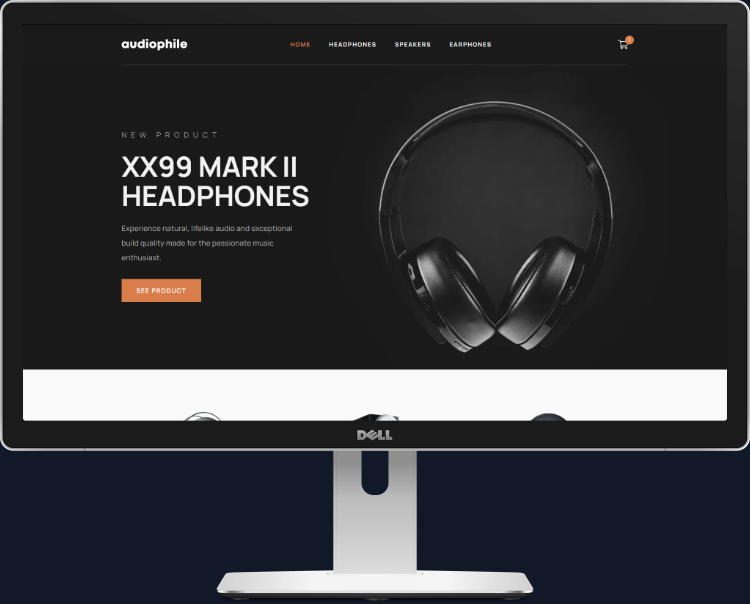
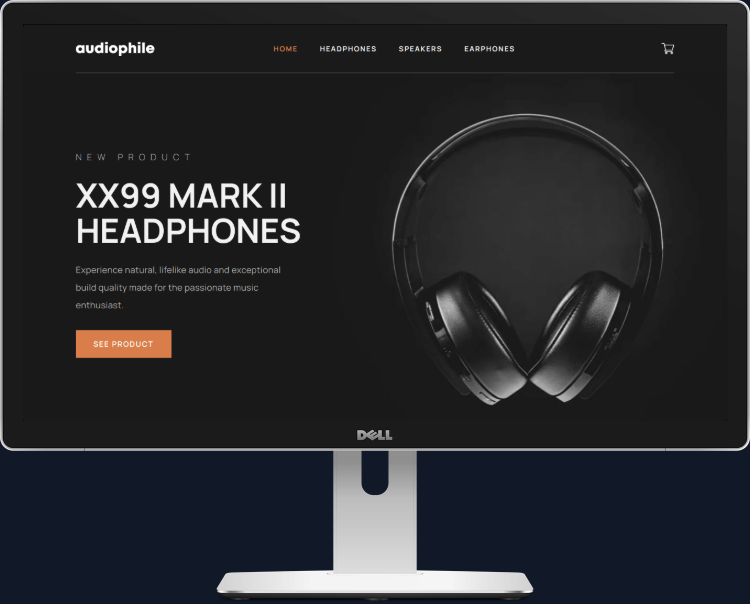
added emailJs for the contact section and modified the form to fit to the emailjs rule. Also replaced some of the images and reduced the font size on desktop screen

diff --git a/src/components/Contact.js b/src/components/Contact.js
@@ -1,35 +1,72 @@
-import React, { useState } from 'react'
+import React, { useRef, useState, useEffect } from 'react'
+import emailjs from '@emailjs/browser'
+
 const Contact = () => {
+	const formRef = useRef()
+	const [done, setDone] = useState(false)
+
+	useEffect(() => {
+		setTimeout(function () {
+			setDone(false)
+		}, 3000)
+	}, [])
+
 	const [name, setName] = useState('')
 	const [email, setEmail] = useState('')
+	const [subject, setSubject] = useState('')
 	const [message, setMessage] = useState('')
 
-	function encode(data) {
-		return Object.keys(data)
-			.map(
-				(key) => encodeURIComponent(key) + '=' + encodeURIComponent(data[key])
-			)
-			.join('&')
-	}
-
-	function reset(){
-		setName('')
-		setEmail('')
-		setMessage('')
-	}
-
-	function handleSubmit(e) {
+	const sendEmail = (e) => {
 		e.preventDefault()
-		fetch('https://formsubmit.co/adedeji006@gmail.com', {
-			method: 'POST',
-			headers: { 'Content-Type': 'application/x-www-form-urlencoded' },
-			body: encode({ 'form-name': 'contact', name, email, message }),
-		})
-			.then(() => alert('Message sent!'))
-			.catch((error) => alert(error))
-			
-			reset()
+
+		emailjs
+			.sendForm(
+				'service_opnz8zb',
+				'template_hsoqk7q',
+				formRef.current,
+				'user_VtrmjHkwBS6z6fCEIrm4K'
+			)
+			.then(
+				(result) => {
+					console.log(result.text)
+					setDone(true)
+					setName('')
+					setEmail('')
+					setSubject('')
+					setMessage('')
+				},
+				(error) => {
+					console.log(error.text)
+				}
+			)
 	}
+
+	// function encode(data) {
+	// 	return Object.keys(data)
+	// 		.map(
+	// 			(key) => encodeURIComponent(key) + '=' + encodeURIComponent(data[key])
+	// 		)
+	// 		.join('&')
+	// }
+
+	// function reset(){
+	// 	setName('')
+	// 	setEmail('')
+	// 	setMessage('')
+	// }
+
+	// function handleSubmit(e) {
+	// 	e.preventDefault()
+	// 	fetch('https://formsubmit.co/adedeji006@gmail.com', {
+	// 		method: 'POST',
+	// 		headers: { 'Content-Type': 'application/x-www-form-urlencoded' },
+	// 		body: encode({ 'form-name': 'contact', name, email, message }),
+	// 	})
+	// 		.then(() => alert('Message sent!'))
+	// 		.catch((error) => alert(error))
+
+	// 		reset()
+	// }
 
 	return (
 		<section
@@ -96,8 +133,9 @@ const Contact = () => {
 				<form
 					netlify='true'
 					name='contact'
-					onSubmit={handleSubmit}
-					className='lg:w-1/3 md:w-1/2 flex flex-col md:ml-auto w-full md:py-8 mt-8 md:mt-0'
+					ref={formRef}
+					onSubmit={sendEmail}
+					className='lg:w-1/3 md:w-1/2 flex flex-col md:ml-auto w-full  mt-8 md:mt-0'
 				>
 					<h2 className='text-white sm:text-4xl text-3xl mb-1 font-medium title-font'>
 						Hire Me
@@ -114,10 +152,27 @@ const Contact = () => {
 							required
 							type='text'
 							id='name'
-							value={name}
 							name='name'
+							value={name}
 							className='w-full bg-gray-800 rounded border border-gray-700 focus:border-indigo-500 focus:ring-2 focus:ring-indigo-900 text-base outline-none text-gray-100 py-1 px-3 leading-8 transition-colors duration-200 ease-in-out'
 							onChange={(e) => setName(e.target.value)}
+						/>
+					</div>
+					<div className='relative mb-4'>
+						<label
+							htmlFor='subject'
+							className='leading-7 text-sm text-gray-400'
+						>
+							Subject
+						</label>
+						<input
+							required
+							type='text'
+							id='subject'
+							value={subject}
+							name='subject'
+							className='w-full bg-gray-800 rounded border border-gray-700 focus:border-indigo-500 focus:ring-2 focus:ring-indigo-900 text-base outline-none text-gray-100 py-1 px-3 leading-8 transition-colors duration-200 ease-in-out'
+							onChange={(e) => setSubject(e.target.value)}
 						/>
 					</div>
 					<div className='relative mb-4'>
@@ -128,8 +183,8 @@ const Contact = () => {
 							required
 							type='email'
 							id='email'
-							value={email}
 							name='email'
+							value={email}
 							className='w-full bg-gray-800 rounded border border-gray-700 focus:border-indigo-500 focus:ring-2 focus:ring-indigo-900 text-base outline-none text-gray-100 py-1 px-3 leading-8 transition-colors duration-200 ease-in-out'
 							onChange={(e) => setEmail(e.target.value)}
 						/>
@@ -156,6 +211,16 @@ const Contact = () => {
 					>
 						Submit
 					</button>
+					{done && (
+						<p
+							className={`${
+								done ? 'flex' : 'hidden'
+							} w-40 mt-5 bg-white font-medium text-green-600 p-3 text-base rounded animate-bounce`}
+						>
+							{' '}
+							Thank you...{' '}
+						</p>
+					)}
 				</form>
 			</div>
 		</section>

diff --git a/src/components/Projects.js b/src/components/Projects.js
@@ -34,29 +34,29 @@ const Projects = () => {
 									/>
 								</div>
 
-								<div className=' w-full px-2 md:px-4 pt-4 pb-5 border-4 border-gray-800 bg-gray-900 '>
+								<div className='flex flex-col w-full px-2 md:px-4 pt-4 pb-5 border-4 border-gray-800 bg-gray-900 '>
 									<h1 className='title-font text-lg text-green-400 tracking-widest font-medium mb-3'>
 										{project.title}
 									</h1>
-									<p className='leading-relaxed text-justify text-sm sm:text-base xl:text-lg tracking-wide'>
+									<p className='leading-relaxed text-justify text-sm sm:text-base  tracking-wide'>
 										{project.description}
 									</p>
 									<h2 className='tracking-widest text-lg title-font font-medium text-green-400 my-4'>
 										Technologies Used
 									</h2>
-									<div className='flex flex-wrap'>
+									<div className='flex flex-wrap mb-8'>
 										{project.techs.map((tech) => (
 											<div key={tech} className='pb-2 w-1/2'>
 												<div className='flex items-center'>
 													<BadgeCheckIcon className='text-green-400 w-6 h-6 flex-shrink-0 mr-2' />
-													<span className='title-font text-sm sm:text-base xl:text-lg font-medium '>
+													<span className='title-font text-sm sm:text-base  font-medium '>
 														{tech}
 													</span>
 												</div>
 											</div>
 										))}
 									</div>
-									<div className='flex justify-center mt-8'>
+									<div className='flex justify-center mt-auto'>
 										<a
 											href={project.link.live}
 											target='_blank'

diff --git a/src/data.js b/src/data.js
@@ -27,7 +27,7 @@ export const projects = [
 		title: 'SendFreight',
 		subtitle: 'React Project',
 		description:
-			'This is a UI design implementation test I did for sendfreight frontend Internship position',
+			'This is a UI design implementation project I took as a test for sendfreight frontend Internship position. This is responsive on all devices and was built with first-mobile approach.',
 		image: './freight.png',
 		link: {
 			live: 'https://adetoba-sendfreight.netlify.app/',
@@ -40,7 +40,7 @@ export const projects = [
 		subtitle: 'React Project',
 		description:
 			'This is a project from frontendmentor.io. The Tip Calculator calculates tip amount for various percentages of the cost of service, and also provides a total amount that includes the tip. It also includes the ability to split the cost between any number of people.',
-		image: './tips.png',
+		image: './tip.png',
 		link: {
 			live: 'https://adetoba-tips-calculator.netlify.app/',
 			code: 'https://github.com/adetobaadedeji/tips-calculator',

diff --git a/src/logos/Email.jsx b/src/logos/Email.jsx
@@ -6,8 +6,6 @@ const Email = () => {
 			width='24'
 			height='24'
 			xmlns='http://www.w3.org/2000/svg'
-			fill-rule='evenodd'
-			clip-rule='evenodd'
 		>
 			<path
 				d='M19 24h-14c-2.761 0-5-2.239-5-5v-14c0-2.761 2.239-5 5-5h14c2.762 0 5 2.239 5 5v14c0 2.761-2.238 5-5 5zm-.141-6.333c.63 0 1.141-.512 1.141-1.142v-9.05c0-.63-.511-1.142-1.141-1.142h-13.718c-.63 0-1.141.512-1.141 1.142v9.05c0 .63.511 1.142 1.141 1.142h13.718zm-6.859-4.058l-6.228-4.321-.014 7.712h12.457v-7.712l-6.215 4.321zm5.913-6.609c-1.745 1.215-5.913 4.153-5.913 4.153l-5.947-4.153h11.86z'

diff --git a/src/components/Navbar.js b/src/components/Navbar.js
@@ -5,7 +5,7 @@ import { NavLink } from 'react-router-dom'
 import Modal from './Modal'
 import LinkedIn from '../logos/LinkedIn'
 import Email from '../logos/Email'
-import Twitter from '../logos/Twitter'
+// import Twitter from '../logos/Twitter'
 
 const Navbar = () => {
 	const [modal, setModal] = useState(false)
